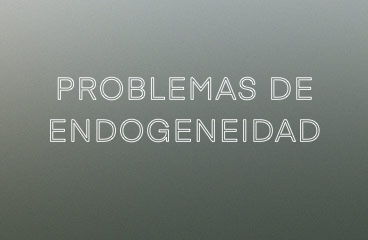
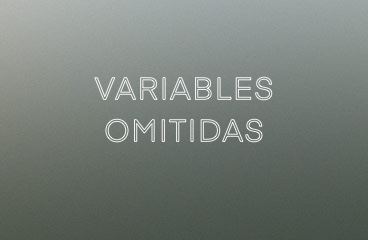
update

Changed region(s): [[0.1196, 0.4958, 0.8668, 0.6125], [0.1495, 0.3208, 0.8668, 0.4375]]

diff --git a/VariablesOmitidas.html b/VariablesOmitidas.html
@@ -2,7 +2,7 @@
 
 <html>
 	<head>
-		<title>Normalidad Asintótica</title>
+		<title>Variables Omitidas</title>
 		<meta charset="utf-8" />
 		<meta name="viewport" content="width=device-width, initial-scale=1, user-scalable=no" />
 		<link rel="stylesheet" href="assets/css/main.css" />
@@ -14,7 +14,7 @@
 			<section id="header">
 				<div class="inner">
 					<span class="icon solid major fa-book-reader"></span>
-					<h1>Normalidad <br /><strong> Asintótica</strong>
+					<h1>Variables <br /><strong> Omitidas</strong>
 					</h1>
 					<p>Pontificia Universidad Javeriana</p>
 
@@ -34,149 +34,99 @@
 					<div class="row gtr-150">
 						<div class="col-6 col-12-medium">
 							<header class="major">
-								<h2>Normalidad Asintótica</h2>
+								<h2>Variables Omitidas</h2>
 							</header>
 							</div>
 
-							<p>Cuando se viola el supuesto de que los errores se distribuyen normal con media 0 y varianza $\sigma^{2}I_{N}$ empezamos a tener
-								 problemas de inferencia estadística. ¿Por qué? Porque si no se cumple el supuesto de normalidad ya no sabemos si $\hat{\beta}$ se distribuye o no normal,
-								 y por ende no podemos  calcular los  estadísticos F o t.</br>
+							<p>
+El tercer supuesto de Gauss Markov, también conocido como el supuesto de exogeneidad estricta hace referencia a que los errores no pueden estar correlacionados con ninguno de nuestros regresores, es decir:
 
-								 Lo bueno es que hay una solución, ya que este supuesto no es necesario cuando tenemos un tamaño de muestra "n" grande.
-								 En esta sección vamos a demostrar usando Stata, que con un n grande, tendremos que:
+ $$ E[\epsilon|X] = 0 $$
 
-								  $$\sqrt{n}(\beta - \hat{\beta}) \underbrace{\longrightarrow}_{Distribucion}  N(0, AVar(\hat{\beta}))$$
+ En esta parte veremos cuando se viola este supuesto gracias a un problema de variables omitidas.  Los otros casos cuando se viola este supuesto es cuando tenemos errores de medición, y simultaneidad. </br>
 
+								Supongamos que el modelo correcto es el siguiente:
 
-									Es decir, $\sqrt{n}(\beta - \hat{\beta})$ \textbf{converge en distribución} a $N(0, AVar(\hat{\beta}))$\\
 
+								    $$ y = X_{r}\beta_{r} + X_{s}\beta_{s} + \mu $$
 
-									Para demostrar esto, partimos de nuestro estimador $\hat{\beta}$ y llegamos a la forma $\sqrt{n}(\hat{\beta} - \beta )$, luego veremos a que convergen los términos restantes (Spoiler: Llegaremos a una función de la forma $A_{n}Z_{n}$, donde $A_{n}$ es una variable aleatoria que converge en probabilidad a una constante A, y $Z_{n}$ es una variable aleatoria que converge en distribución a una normal) y para terminar, usaremos el teorema de Slutsky  para ver a que converge la función restante (la cual tendrá una forma tipo $A_{n}Z_{n}$).\\
 
-									Entonces, partiendo de nuestros estimadores escritos en forma matricial:
+								Pero por alguna razón nosotros estimamos:
 
 
-									    $$ \hat{\beta} = (X'X)^{-1}X'Y $$
+								    $$ y = X_{r}\beta_{r} + \epsilon $$
 
 
+								Intuitivamente sabemos que esto nos va a generar un sesgo en nuestro estimador (sesgo por variable omitida). Veamos porque:
 
-									     $$ \hat{\beta} = \beta+ (X'X)^{-1}X'\epsilon $$
 
+								    $$ \hat{\beta_{r}} = (X_{r}'X_{r})^{-1}X_{r}'y $$
 
 
-									    $$ \hat{\beta} - \beta = (X'X)^{-1}X'\epsilon (\frac{n}{n}) $$
+								Al remplazar por $y$ del modelo correcto y algo de matemáticas
 
 
+								    $$ \hat{\beta_{r}} = (X_{r}'X_{r})^{-1}X_{r}'(X_{r}\beta_{r} + X_{s}\beta_{s} + \mu) $$
 
-									    $$ \hat{\beta} - \beta = (X'X)^{-1}X'\epsilon (\frac{n}{\sqrt{n}\sqrt{n}}) $$
 
 
 
+								    $$ \hat{\beta_{r}} = (X_{r}'X_{r})^{-1}X_{r}'X_{r}\beta_{r} + (X_{r}'X_{r})^{-1}X_{r}'X_{s}\beta_{s} + (X_{r}'X_{r})^{-1}X_{r}'\mu $$
 
-									$$ \sqrt{n}(\hat{\beta} - \beta) = (X'X)^{-1}X'\epsilon (\frac{n}{\sqrt{n}}) $$
 
 
+								      $$ \hat{\beta_{r}} = \beta_{r} + (X_{r}'X_{r})^{-1}X_{r}'X_{s}\beta_{s} + (X_{r}'X_{r})^{-1}X_{r}'\mu  $$
 
 
+								Sacando valor esperado
 
-									    $$ \sqrt{n}(\hat{\beta} - \beta) = (\frac{X'X}{n})^{-1} (\frac{X'\epsilon}{\sqrt{n}}) $$
 
+								    $$ E[\hat{\beta_{r}}] = \beta_{r} + E[(X_{r}'X_{r})^{-1}X_{r}'X_{s}\beta_{s}] + E\cancelto{0}{[(X_{r}'X_{r})^{-1}X_{r}'\mu]} $$
 
-									Sabemos que $(\frac{X'X}{n})^{-1}$ converge en probabilidad a $E[X'X]^{-1}$, pero no sabemos nada sobre $(\frac{X'\epsilon}{\sqrt{n}})$, asi que vamos a ver:
 
 
-									    $$ (\frac{X'\epsilon}{\sqrt{n}}) $$
+								    $$ E[\hat{\beta_{r}}] = \beta_{r} + \underbrace{E[(X_{r}'X_{r})^{-1}X_{r}'X_{s}\beta_{s}]}_{Sesgo} $$
 
 
+								Como vemos, al omitir una variable importante, se nos esta generando un sesgo. La pregunta ahora es ¿Cual es la dirección de este sesgo?. Esto depende de dos cosas, primero del signo de $\beta_{s}$ y segundo del signo de la $cov(X_{r}, X_{s})$.
+</p>
+							<div>
+								<span class="image fit"><img src="images/sesgovo.png" alt="" style="width: 45vw; min-width: 330px;" /></span>
+							</div>
 
-									    $$ \underbrace{X'}_{X}\underbrace{(\frac{\epsilon}{\sqrt{n}})}_{N(0,1)} $$
+<p>
+								Para aterrizar un poco mas este concepto, imaginemos que estamos tratando de estimar el salario de las personas. Omitimos habilidad ya que no contamos con una forma de medirla, y estimamos el parámetro para años de educación $\beta_{educ}$. Para saber cual sera el sesgo debemos pensar en dos cosas. Primero, es posible que $\beta_{habilidad} > 0$, es decir, que la habilidad afecte positivamente al salario, y segundo también tiene sentido pensar que existe una relación positiva entre años de educación y habilidad (se podría argumentar que entre mas hábil soy, soy mas propenso a estudiar ya que se me facilita mas), por lo que $cov(Educacion,Habilidad) > 0$. Si vemos en la tabla, veremos entonces que nuestro estimador para $\beta_{educ}$ tendra un sesgo positivo. \\
 
 
-									Por una parte gracias al teorema del limite central, esto converge a una normal, pero no sabemos cuales serán sus momentos muéstrales. Para saberlo, tomamos valor esperado:
+								Otra pregunta interesante es si este sesgo se soluciona cuando n tiende a infinito. Para ver esto, tomaremos nuestro estimador sesgado $\beta_{r}$ (antes de sacarle valor esperado) y le aplicaremos $plim$.
 
 
+								       $$  plim[\hat{\beta_{r}}] = plim[\beta_{r} + (X_{r}'X_{r})^{-1}X_{r}'X_{s}\beta_{s} + (X_{r}'X_{r})^{-1}X_{r}'\mu (\frac{n}{n})] $$
 
-									   $$ E[{(\frac{X'\epsilon}{\sqrt{n}})}] = 0 $$
 
 
-									Y tomamos la varianza:
+								    $$ plim[\hat{\beta_{r}}] = plim[\hat{\beta_{r}} (\frac{n}{n})] + plim[(\frac{X_{r}'X_{r}}{n})^{-1} (\frac{X_{r}'X_{s}}{n}) \beta_{s}] + plim[(\frac{X_{r}'X_{r}}{n})^{-1} (\frac{X_{r}'\mu}{n})] $$
 
 
-									       $$ Var[{(\frac{X'\epsilon}{\sqrt{n}})}] = \frac{1}{n}X'Var(\epsilon)X $$
 
+								    $$ plim[\hat{\beta_{r}}] = \beta_{r} + \underbrace{E[X'X]^{-1}E[X_{r}'x_{s}]\beta_{s}}_{Inconsistente} $$
 
-									       $$ Var[{(\frac{X'\epsilon}{\sqrt{n}})}] = \frac{1}{n}X'{\sigma_{\epsilon}}^{2}X $$
 
+								Asi que como acabamos de ver cuando omitimos una variable importante en nuestra regresion, vamos a tener estimadores sesgados e inconsistentes. Un dato a tener en cuenta es que estos estimadores sesgados tendrán una varianza menor a los estimadores correctos simplemente por el hecho de tener menos variables.
 
-									       $$ Var[{(\frac{X'\epsilon}{\sqrt{n}})}] = {\sigma_{\epsilon}}^{2}\underbrace{(\frac{X'X}{n})}_{E[X'X]} $$
 
+								    $$ Var[\widetilde{\beta_{r}}] = {\sigma_{\epsilon}^{2}} (X_{r}'X_{r})^{-1}  $$
 
 
-									       $$ Var[{(\frac{X'\epsilon}{\sqrt{n}})}] = {\sigma_{\epsilon}}^{2}E[X'X] $$
 
 
-									Dado lo anterior ahora sabemos que  $(\frac{X'\epsilon}{\sqrt{n}}) \sim N(0,{\sigma_{\epsilon}}^{2}E[X'X])$\\
 
-									Y volviendo a nuestra ecuación inicial
+								 $$ Var[\hat{\beta_{r}}] = {\sigma_{\epsilon}^{2}} \frac{(X_{r}'X_{r})^{-1}}{1 - {R^{2}_{Xr,Xs}}}  $$
 
-									      $$ \sqrt{n}(\hat{\beta} - \beta) = \underbrace{(\frac{X'X}{n})^{-1}}_{E[X'X]^{-1}} \underbrace{(\frac{X'\epsilon}{\sqrt{n}})}_{N(0,{\sigma_{\epsilon}}^{2}E[X'X])} $$
 
 
-									Y aqui es donde entra Slustky, ya que este teorema nos dice que
+								     $$ Var[\widetilde{\beta_{r}}] < Var[\hat{\beta_{r}}] $$
 
-
-									    Si $Z_{n} \underbrace{\longrightarrow}_{Distribucion}  N(0,I)$ y $A_{n} \underbrace{\longrightarrow}_{probabilidad} A$
-
-
-									Entonces
-
-
-									    $$ Z_{n}A_{n} \underbrace{\longrightarrow}_{Distribucion} N(0, A\sum A') $$
-
-
-									En nuestro caso, $A = E[X'X]^{-1}$ Y $Z_{n} =  (\frac{X'\epsilon}{\sqrt{n}}) \sim N(0,{\sigma_{\epsilon}}^{2}E[X'X])$ por lo que ya sabemos como terminar la demostración:</br></br>
-
-
-
-								 El valor esperado:</br>
-
-
-
-									$$ E[Az_{n}] = AE[Z] = 0 $$
-
-
-									La varianza:
-
-
-
-									$$ Var[{AZ_{n}}] = AVar(Z)A' $$
-
-
-
-									$$ Var[{AZ_{n}}] = E[X'X]^{-1}Var(Z)E[X'X]^{-1'} $$
-
-
-									Pero recordemos que $Z_{n} =  (\frac{X'\epsilon}{\sqrt{n}}) \sim N(0,{\sigma_{\epsilon}}^{2}E[X'X])$, por lo que conocemos cual es la varianza de $Z$
-
-
-									$$ Var[{AZ_{n}}] = E[X'X]^{-1}{\sigma_{\epsilon}}^{2}E[X'X]E[X'X]^{-1'} $$
-
-
-
-									$$ Var[{AZ_{n}}] = {\sigma_{\epsilon}}^{2}E[X'X]\underbrace{E[X'X]^{-1}E[X'X]^{-1'}}_{I} $$
-
-
-
-									   $$ Var[{AZ_{n}}] = {\sigma_{\epsilon}}^{2}E[X'X] = {\sigma_{\epsilon}}^{2} {\frac{(X'X)}{n}}^{-1} $$
-
-
-										 Finalmente, conocemos la distribución y los momentos muéstrales de $\sqrt{n}(\beta - \hat{\beta})$
-
-
-										     $$ \sqrt{n}(\beta - \hat{\beta})  D\longrightarrow N(0, {\sigma_{\epsilon}}^{2} {\frac{(X'X)}{n}}^{-1}) $$
-
-
-										 Resumiendo, partimos del estimador de $\hat{\beta}$ para demostrar que cuando tenemos un n muy grande, sin importar como se distribuye el error, nuestro estimador $\hat{\beta}$ seguirá siendo útil para calcular nuestros estadísticos t y F\footnote{De hecho, siguiendo el mismo procedimiento se puede demostrar que $\hat{\beta}$ se distribuye normal con media $\beta$ y varianza ${\sigma_{\epsilon}}^{2}(X'X)^{-1}$. Sin el supuesto de normalidad, no conocíamos la distribución de $\hat{\beta}$, y por ende, no podíamos construir la t. Al demostrar que   $\sqrt{n}(\beta - \hat{\beta}) D{\longrightarrow}  N(0, AVar(\hat{\beta}))$ podemos construir la t y la F sin ningún problema.
 
 
 
@@ -190,95 +140,36 @@
 
 
 				<div class="container">
+					<p>pendiente</p>
 
 					<div class="row gtr-150">
 						<div class="col-6 col-12-medium">
 						<pre><code>
-<strong style="color:blue">clear</strong>
-<strong style="color:blue">capture program drop</strong>  MCO
-<strong style="color:blue">program</strong> define MCO, rclass
-<strong style="color:blue">args</strong> N
-<strong style="color:blue">clear</strong>
-<strong style="color:blue">set</strong> obs `N'
-<strong style="color:blue">capture</strong> drop y x
-<strong style="color:blue">gen</strong> x=runiform(0,8)
-<strong style="color:blue">gen</strong> y = 0.5*x+runiform(0,5)
-<strong style="color:blue">qui reg</strong> y x
-<strong style="color:blue">return scalar</strong> beta = _b[x]
-<strong>end</strong>
+
+
 						</code></pre>
 
 						</div>
 						<div class="col-6 col-12-medium imp-medium">
-							<span class="image fit"><img src="images/f.png" alt="" /></span>
+							<span class="image fit"><img src="images/F.jpg" alt="" /></span>
 						</div>
+					</div>
+					<div class="container">
+
+					<h3>Bibliografía:</h3>
+					<ul>
+					<li> Verbeek, M. (2004), A Guide to Modern Econometrics.</li>
+					<li> Wooldridge, Jeffrey M. (2018), Introductory Econometrics: A Modern Approach, Sixth Edition, Cengage Learning.</li>
+					<li> Montenegro, A. (2018), Econometría Intermedia y Básica.</li>
+
+					</ul>
 					</div>
 				</div>
 
-				<div class="container">
 
-					<div class="row gtr-150">
-						<div class="col-6 col-12-medium">
-						<pre><code>
-<strong style="color:blue">simulate</strong> Beta1000=r(beta), reps(1000) nodots: MCO 1000
-<strong style="color:blue">save</strong> Beta1000.dta
-<strong style="color:blue">simulate</strong>  Beta10000=r(beta), reps(1000) nodots: MCO 10000
-<strong style="color:blue">merge 1:1 </strong>  _n using beta1000
-<strong style="color:blue">kdensity</strong> Beta1000, n(500) generate(x_1000 f_1000) kernel(gaussian) nograph
-<strong style="color:blue">label</strong> variable f_1000 "N=1000"
-<strong style="color:blue">kdensity</strong>  Beta10000, n(500) generate(x_10000 f_10000) kernel(gaussian) nograph
-<strong style="color:blue">label</strong> variable f_10000 "N=10000"
-<strong style="color:blue">graph twoway</strong> (line f_1000 x_1000) (line f_10000 x_10000)
-						</code></pre>
-
-						</div>
-						<div class="col-6 col-12-medium imp-medium">
-							<span class="image fit"><img src="images/normalidad1.png" alt="" /></span>
-						</div>
-					</div>
-					<p>Como podemos ver nuestro estimador es consistente y a medida que aumenta la muestra, tiende mas a acercarse al valor poblacional pero, como se había mencionado anteriormente
-					esta el problema de que su distribución cambia a medida que cambia la muestra. La distribución del estimador con n = 10000 esta mucho mas concentrada.</p>
-				</div>
-
-
-				<div class="container">
-<p>Dado lo anterior optaremos por utilizar una version de  los estimadores recentrados y escalados.</p>
-					<div class="row gtr-150">
-						<div class="col-6 col-12-medium">
-						<pre><code>
-<strong style="color:blue">replace</strong>  Beta1000=sqrt(1000)*(Beta1000-0.5)
-<strong style="color:blue">replace</strong>  Beta10000=sqrt(10000)*(Beta10000-0.5)
-<strong style="color:blue">drop</strong> x_1000 f_1000 x_10000 f_10000
-<strong style="color:blue">kdensity</strong> Beta1000, n(500) generate(x_1000 f_1000) kernel(gaussian) nograph
-<strong style="color:blue">label</strong> variable f_1000 "N=1000"
-<strong style="color:blue">kdensity</strong> Beta10000, n(500) generate(x_10000 f_10000) kernel(gaussian) nograph
-<strong style="color:blue">label</strong> variable f_10000 "N=10000"
-<strong style="color:blue">graph twoway</strong> (line f_1000 x_1000) (line f_10000 x_10000) (function normalden(x, sqrt(0.5)),range(-2 2)) , legend(label(3 "Distribución Normal"  cols(3))
-						</code></pre>
-
-						</div>
-						<div class="col-6 col-12-medium imp-medium">
-							<span class="image fit"><img src="images/normalidad2.png" alt="" /></span>
-						</div>
-					</div>
-
-					<p>En esta ultima grafica vemos como los estimadores recentrados y escalados tienen una distribución prácticamente igual a la de una normal independiente del N. Ahora si podemos usar
-					nuestros estadísticos f y t y hacer inferencia sin problema.</p>
-				</div>
 
 				</div>
 
-				<div class="container">
-
-				<h3>Bibliografía:</h3>
-				<ul>
-				<li> Verbeek, M. (2004), A Guide to Modern Econometrics.</li>
-				<li> Drukker, D. (2017), Consistencia y Normalidad Asintótica: Una Explicación con Simulaciones.</li>
-				<li> Wooldridge, Jeffrey M. (2018), Introductory Econometrics: A Modern Approach, Sixth Edition, Cengage Learning.</li>
-				<li> Montenegro, A. (2018), Econometría Intermedia y Básica.</li>
-
-				</ul>
-				</div>
 			</section>
 
 		<!-- Two -->

diff --git a/index.html b/index.html
@@ -91,10 +91,10 @@
 
 					<div class="col-4 col-12-medium">
 						<span class="image fit"><img src="images/pic05.jpg" alt="" /></span>
-						<h3>Problemas de Endogeneidad</h3>
-						<p> pendiente</p>
+						<h3>Variables Omitidass</h3>
+						<p> El sesgo de variable omitida ocurre cuando la variable independiente que hemos incluido en nuestro modelo recoge el efecto de alguna otra variable que hemos omitido. La razón del sesgo es que estamos atribuyendo efectos a X que deberían atribuirse a la variable omitida.</p>
 						<ul class="actions special">
-							<li><a href="#" class="button">Más</a></li>
+							<li><a href="VariablesOmitidas.html" class="button">Más</a></li>
 						</ul>
 					</div>
 					</div>

diff --git a/TeoremaFWL.html b/TeoremaFWL.html
@@ -150,6 +150,16 @@ outreg2 using myreg.doc, append ctitle(Modelo Correcto)
 
 
 				</div>
+				<div class="container">
+
+				<h3>Bibliografía:</h3>
+				<ul>
+				<li> Verbeek, M. (2004), A Guide to Modern Econometrics.</li>
+				<li> Wooldridge, Jeffrey M. (2018), Introductory Econometrics: A Modern Approach, Sixth Edition, Cengage Learning.</li>
+				<li> Montenegro, A. (2018), Econometría Intermedia y Básica.</li>
+
+				</ul>
+				</div>
 
 			</section>
 

diff --git a/Montecarlo.html b/Montecarlo.html
@@ -316,7 +316,16 @@ $$plim(\hat{\beta}) = \beta$$
 
 
 
+<div class="container">
 
+<h3>Bibliografía:</h3>
+<ul>
+<li> Verbeek, M. (2004), A Guide to Modern Econometrics.</li>
+<li> Wooldridge, Jeffrey M. (2018), Introductory Econometrics: A Modern Approach, Sixth Edition, Cengage Learning.</li>
+<li> Montenegro, A. (2018), Econometría Intermedia y Básica.</li>
+
+</ul>
+</div>
 
 
 
